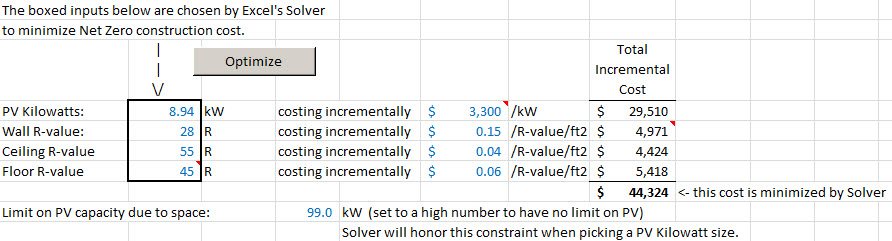
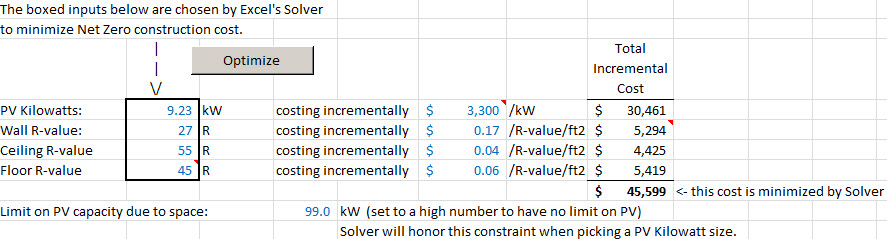
Updates to Inputs. Added Incremental Cost Spreadsheet.

diff --git a/README.md b/README.md
@@ -2,7 +2,7 @@
 
 This is a Microsoft Excel model for determining the levels of insulation and PV (Solar) panels that minimize the construction cost of a Net Zero Energy home.  This model was born out of Net Zero discussions amongst members of the [Alaska Center for Appropriate Technology](http://acat.org/).
 
-[Click here to Download the Excel Net Zero Energy Optimizer Model](Net_Zero_Optimizer.xlsm?raw=true)  
+[Click here to Download the Excel Net Zero Energy Optimizer Model](Net-Zero-Optimizer.xlsm?raw=true)  
 When you open the Excel workbook, you need to click the button at the top of the workbook to "Enable Content" (Macros), as the workbook has a macro attached to the "Optimize" button.  Also, this workbook uses the Excel Solver Add-In, which is provided by Microsoft with Excel.  However, the Solver Add-In needs to be enabled according to these instructions (this only needs to done once for your installation of Excel):
 
 <a href="https://support.office.com/en-sg/article/Load-the-Solver-Add-in-0e6760e3-dab5-4fd4-bebb-15ee311a4316" target="_blank">Instructions for Loading the Excel Solver Add-In</a>
@@ -24,7 +24,7 @@ Here is a screen shot of the key values that are optimized and the cost inputs a
 
 ![Optimization Inputs](images/opt_inputs.jpg)
 
-The thick bordered box on the left highlights the four characteristics that are manipulated in the optimization process.  The gray "Optimize" button starts the optimization, and Excel finds the cost-minimizing values for the PV capacity and the three R-values.  In this example, the home reached net zero and minimized construction cost with 8.94 kW of PV, R-28 Walls, R-55 ceilings, and R-45 floors (the model simplifies and assumes all R-values and PV outputs are possible.  The model could be modified to only allow certain discrete possibilities.)
+The thick bordered box on the left highlights the four characteristics that are manipulated in the optimization process.  The gray "Optimize" button starts the optimization, and Excel finds the cost-minimizing values for the PV capacity and the three R-values.  In this example, the home reached net zero and minimized construction cost with 9.23 kW of PV, R-27 Walls, R-55 ceilings, and R-45 floors (the model simplifies and assumes all R-values and PV outputs are possible.  The model could be modified to only allow certain discrete possibilities.)
 
 Note that you can manually type in values for the four characteristics to test out your own possible solutions.  These values will be over-written by the Solver if you later run the Optimize feature.  When you do run the Optimize feature, make sure the starting values in the cells are reasonable or Solver may have difficulty finding a solution.
 
@@ -32,7 +32,9 @@ Note that you can manually type in values for the four characteristics to test o
 
 It is important to understand the meaning of the cost values shown in the screen shot.  The optimization involves trying various values of PV output and R-values.  The test is whether increasing PV output by a certain amount and decreasing R-values results in lower costs while still maintaining net zero energy use.  The relevant cost characteristics are the *incremental costs* of adding/removing PV capacity and adding/removing R-value.  Any fixed costs of installing the PV system, such as the electrical connection costs, are not relevant because those costs are close to the same for all relevant levels of PV capacity.  Wall construction also has a number of fixed costs that are not related to the R-value of the wall (siding costs, sheetrock costs, etc).  These costs should be ignored when entering the incremental costs in the model.
 
-In the example above, the incremental PV cost is shown as $3,300 / kW.  That means that the cost of adding an additional section of panels and associated inverters/racking to the system divided by the extra capacity provided by those panels is $3,330 per kW added.  The incremental Wall R-value cost is shown as $0.15 / R-value / square foot.  This figure is consistent with adding an additional R-10 to the wall design for a cost of $1.50/square-foot:   `$1.50/ft2 / R-10 = $0.15/R-value/ft2`.  These cost numbers have not been researched thoroughly and depend on the design of these components.  But, $0.15/R-value/ft2 is an estimate reasonably consistent with a wall using rigid foam to achieve additional R-value beyond that provided by a batt or cellulose-filled wall cavity.
+In the example above, the incremental PV cost is shown as $3,300 / kW.  That means that the cost of adding an additional section of panels and associated inverters/racking to the system divided by the extra capacity provided by those panels is $3,330 per kW added.  The incremental Wall R-value cost is shown as $0.17 / R-value / square foot.  This figure is consistent with adding an additional R-10 to the wall design for a cost of $1.70/square-foot:   `$1.70/ft2 / R-10 = $0.17/R-value/ft2`.  These cost numbers have not been researched thoroughly and depend on the design of these components.  But, $0.17/R-value/ft2 is an estimate reasonably consistent with a wall using rigid foam to achieve additional R-value beyond that provided by a batt or cellulose-filled wall cavity.  For some calculations related to the incremental cost of wall R-value, see this spreadsheet:
+
+[Calculations Related to Incremental Wall R-Value Costs](Incremental-Insulation-Costs.xlsx?raw=true)
 
 One common situation where these linear cost estimates break down is when there is limited space to install a PV system.  Available roof space will be exceeded at some point, and additional capacity is either not possible or must be more-expensively ground mounted.  The model can somewhat accommodate this situation through use of the "Limit on PV capacity due to space" input shown above.  If you know that you can only install as much as 8 kW of PV on your roof, then you can enter this 8 kW limit for this input.  When the optimization is run, it will limit the amount of PV capacity used (the optimizer may choose to use less than the limit value if doing so minimizes costs).  Note that if you set this limit too low, the Excel Solver may not be able to find a solution that results in Net Zero energy use.  No level of Wall/Floor/Ceiling R-values will be able to drop energy use to net zero with the limited amount of PV capacity.
 
